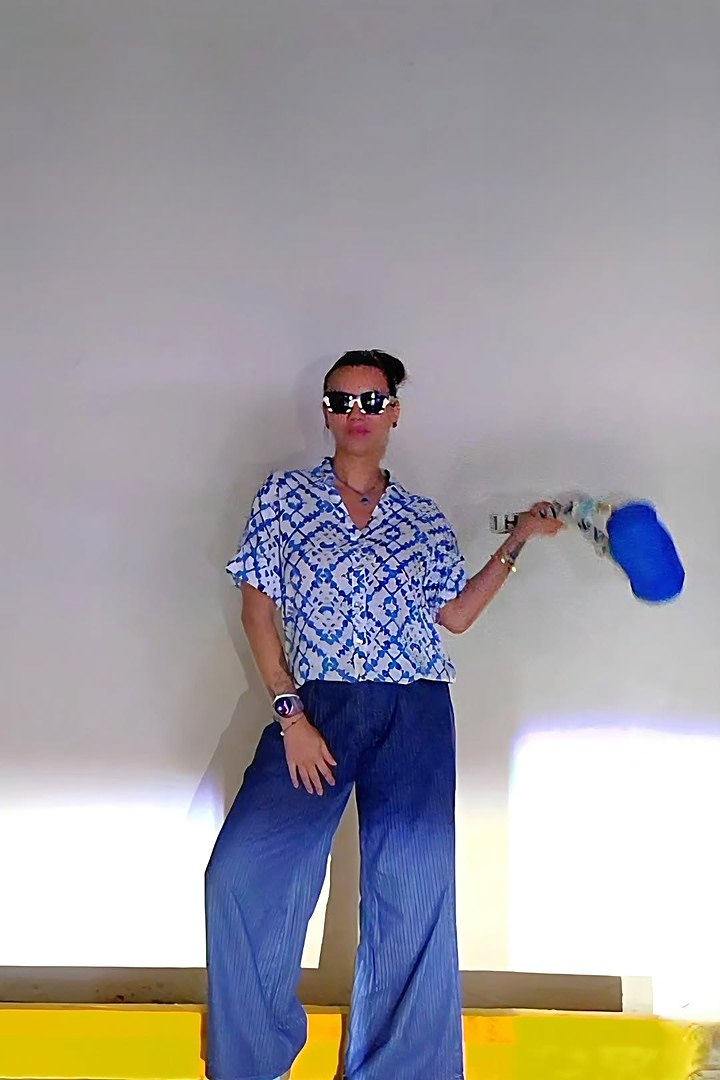
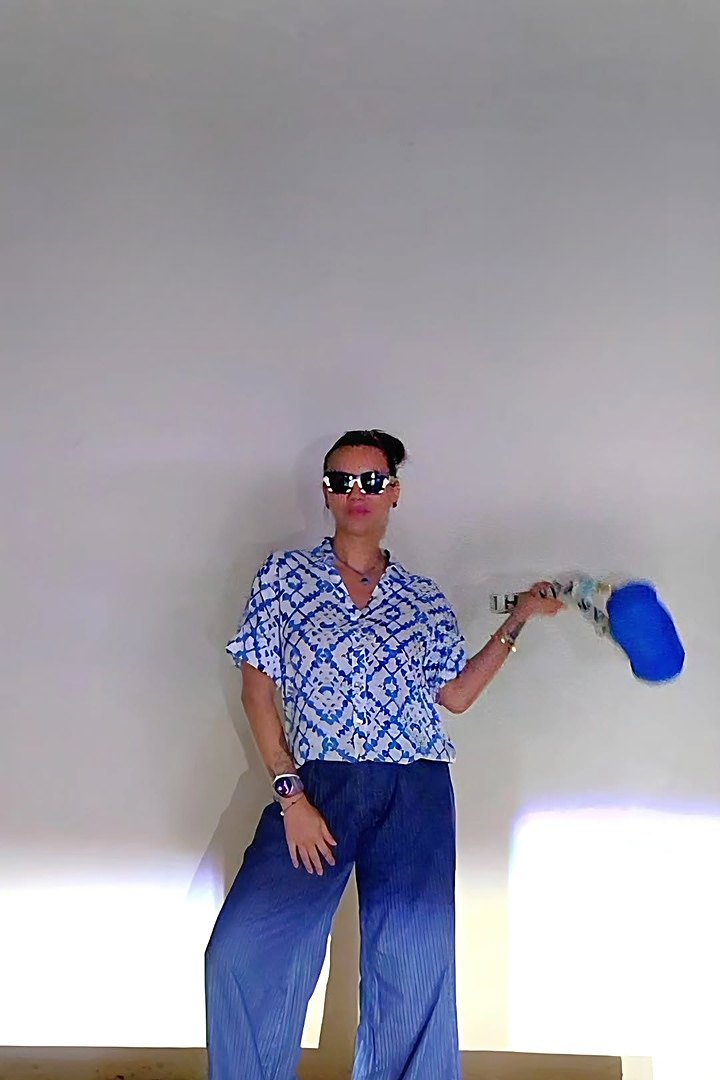
Versión inglesa: descripciones de prendas, entrega y pagos traducidos
Claude-Session: https://claude.ai/code/session_012kiAtahGVL64r5ZrD64122

diff --git a/assets/desc-en.js b/assets/desc-en.js
@@ -1,0 +1,80 @@
+// Descripciones de las prendas en inglés (se aplican solo con EN seleccionado)
+window.mogiDescEN = {
+"Blazer cruzado de cuadros en marrón y crudo con botones de carey. Sin forro, ideal para el clima de Panamá.":"Double-breasted check blazer in brown and ecru with tortoiseshell buttons. Unlined, perfect for warm weather.",
+"Blazer cruzado sin forro y de tela muy fresca. Combina con todos los tonos tierra.":"Unlined double-breasted blazer in a light, airy fabric. Pairs with every earth tone.",
+"Blazer muy versátil: elegante con un vestido o casual con tus jeans favoritos.":"A truly versatile blazer: elegant over a dress, effortless with your favourite jeans.",
+"Blazer rosa de botón único y pantalón con lunares rosa sobre fondo chocolate. Un set con carácter.":"Single-button pink blazer with trousers in pink polka dots on chocolate. A set with character.",
+"Blusa de manga corta con estampado de naranjas sobre fondo crudo. Fresca y veraniega.":"Short-sleeved blouse with an orange print on ecru. Fresh and summery.",
+"Blusa de manga corta con estampado tie-dye en azul sobre blanco, fresca y ligera.":"Short-sleeved blouse with a blue tie-dye print on white, fresh and light.",
+"Blusa de rayas verticales turquesa y negro con botones forrados y puños amplios.":"Turquoise and black vertical-stripe blouse with covered buttons and wide cuffs.",
+"Blusa de satén con escote en pico y manga murciélago amplia. Caída fluida y brillo sutil.":"Satin blouse with a V-neck and generous batwing sleeves. Fluid drape and a subtle sheen.",
+"Blusa fluida de manga ancha en amarillo suave, fresca y fácil de combinar.":"Flowing wide-sleeved blouse in soft yellow, fresh and easy to style.",
+"Blusa negra semitransparente con arabescos aterciopelados y mangas abullonadas. Pantalón negro a juego disponible.":"Sheer black blouse with velvet arabesques and puff sleeves. Matching black trousers available.",
+"Blusa satinada en rosa con estampado gráfico y mangas abullonadas.":"Pink satin blouse with a graphic print and puff sleeves.",
+"Blusa sin mangas con estampado abstracto en naranja y crudo.":"Sleeveless blouse with an abstract print in orange and ecru.",
+"Blusita de punto con corazones en fucsia y naranja, con jeans wide leg en gris lavado. Desde $15.50.":"Knit top with fuchsia and orange hearts, with washed-grey wide-leg jeans. From $15.50.",
+"Blusón negro largo de mangas cortas con fruncido lateral. Se lleva solo o sobre pantalón.":"Long black tunic with short sleeves and side gathering. Wear it on its own or over trousers.",
+"Botín de ante rojo con tacón ancho y punta afilada. Elegante con vestidos y faldas largas.":"Red suede ankle boot with a block heel and pointed toe. Elegant with dresses and long skirts.",
+"Caftán largo de escote en pico con abertura y manga ancha. Tejido ligero con textura, súper versátil y combinable con todos los colores.":"Long V-neck kaftan with a slit and wide sleeves. Light textured fabric, endlessly versatile and easy to pair with any colour.",
+"Camisa amplia de cuello clásico con dos bolsillos de parche y rayas rojas sobre blanco. Las rayas se quedan todo el año.":"Relaxed shirt with a classic collar, two patch pockets and red stripes on white. Stripes that stay all year round.",
+"Camisa de rayas blanco y negro con botones fucsia y pantalón con rosas estampadas. Contraste perfecto.":"Black and white striped shirt with fuchsia buttons, paired with rose-print trousers. Perfect contrast.",
+"Camisa fluida de tacto satinado con cuello camisero y puños abotonados.":"Flowing shirt with a satin feel, classic collar and buttoned cuffs.",
+"Camiseta de cuello redondo y manga corta con estampado gráfico frontal. Corre grande.":"Crew-neck, short-sleeved tee with a graphic front print. Runs large.",
+"Camiseta stretch blanca con estampado de flores en acuarela.":"White stretch tee with a watercolour floral print.",
+"Chaleco y pantalón de caída ligera en azul denim, con botones traídos de Marruecos. Fresco, elegante y muy versátil.":"Lightweight denim-blue waistcoat and trousers with buttons brought from Morocco. Fresh, elegant and versatile.",
+"Chaqueta de inspiración militar en verde salvia con galones crudos y botones dorados.":"Military-inspired jacket in sage green with ecru braiding and gold buttons.",
+"Collar artesanal de cadena plateada con piezas de cristal, flores metálicas y cuentas en negro y coral. Una pieza única que da carácter a cualquier look.":"Handcrafted silver-chain necklace with crystal pieces, metal flowers and black and coral beads. A one-of-a-kind piece that gives character to any look.",
+"Collar de eslabones con dije Testa di Moro de Palermo pintado a mano y aretes de coral, perlas y piedras verdes.":"Link necklace with a hand-painted Palermo Testa di Moro pendant, with coral, pearl and green-stone earrings.",
+"Collar de eslabones con dijes marinos (caracola, tortuga y caballito de mar) y aretes de caracola a juego.":"Link necklace with marine charms (shell, turtle and seahorse) and matching shell earrings.",
+"Collar de piedras azules con medalla esmaltada de mariposa y aretes de bola a juego.":"Blue-stone necklace with an enamelled butterfly medallion and matching ball earrings.",
+"Conjunto de blusa de manga larga con lazada en el escote y short de tiro alto, con flores bordadas en crudo sobre negro.":"Long-sleeved blouse with a tie neckline and high-waisted shorts, with ecru flowers embroidered on black.",
+"Deportiva plana en bronce con rayas laterales crudo.":"Flat bronze sneaker with ecru side stripes.",
+"Deportiva plana en tono camel con suela blanca. Perfecta con pantalones anchos.":"Flat camel sneaker with a white sole. Perfect with wide-leg trousers.",
+"Falda larga de volantes con cintura fruncida elástica y estampado geométrico en morado, rosa y blanco.":"Long tiered skirt with an elasticated gathered waist and a geometric print in purple, pink and white.",
+"Falda midi de doble capa de tul en tono miel, con cintura elástica. Ligera y romántica.":"Honey-toned double-layer tulle midi skirt with an elasticated waist. Light and romantic.",
+"Falda midi gris marengo con pinzas en la cintura. Elegante y atemporal.":"Charcoal-grey midi skirt with waist darts. Elegant and timeless.",
+"Falda midi rosa empolvado con lunares naranja y cintura elástica.":"Powder-pink midi skirt with orange polka dots and an elasticated waist.",
+"Jeans de pierna ancha en denim azul con raya diplomática fina. Tiro alto y caída perfecta.":"Wide-leg jeans in blue pinstripe denim. High-rise with a perfect drape.",
+"Jeans slim bootcut negros de tejido stretch con triple botón en la cintura. Pasan de un look casual a uno formal.":"Black slim bootcut jeans in stretch fabric with a triple-button waist. From casual to formal in a heartbeat.",
+"Jumpsuit con mangas anchas, elástico en la cintura y lazo integrado para estilizar.":"Jumpsuit with wide sleeves, an elasticated waist and a built-in tie to define the silhouette.",
+"Kaftán largo en tonos denim, fresco y cómodo.":"Long kaftan in denim tones, fresh and comfortable.",
+"Mom jeans de lavado claro personalizados con piedras de colores brillantes. Tiro alto y pernera recta.":"Light-wash mom jeans customised with bright coloured stones. High-rise and straight-leg.",
+"Pantalón ancho de cintura elástica con estampado tropical en lilas, verdes y azules.":"Wide-leg trousers with an elasticated waist and a tropical print in lilac, green and blue.",
+"Pantalón ancho de rayas verticales con cintura elástica. Tan versátil como chic.":"Wide-leg vertical-stripe trousers with an elasticated waist. As versatile as they are chic.",
+"Pantalón ancho de tiro alto con estampado de ondas rojas y blancas. Combínalo con la camisa de rayas para un total look.":"High-waisted wide-leg trousers with a red and white wave print. Pair with the striped shirt for a total look.",
+"Pantalón balloon de tiro alto con pinzas, en verde oliva.":"High-waisted pleated balloon trousers in olive green.",
+"Pantalón de pierna muy ancha en gris, de tejido fluido y cintura elástica.":"Extra-wide-leg grey trousers in a fluid fabric with an elasticated waist.",
+"Pantalón de tiro alto en rosa intenso, con pinzas y tejido stretch muy cómodo.":"High-waisted trousers in vivid pink, with pleats and a very comfortable stretch fabric.",
+"Pantalón de vestir de pernera ancha con pinzas y elástico en la parte de atrás para mayor comodidad.":"Wide-leg tailored trousers with pleats and an elasticated back for extra comfort.",
+"Pantalón palazzo de estampado tropical en azules y lila con camiseta básica en mostaza. Un set de colores espectaculares.":"Tropical-print palazzo trousers in blue and lilac with a basic mustard tee. A set in spectacular colours.",
+"Salón de punta en azul hielo con detalle rojo en el talón. Tacón fino.":"Ice-blue pointed pump with a red heel detail. Slim heel.",
+"Salón fucsia de punta fina y tacón medio. El toque de color para un look negro.":"Fuchsia pointed pump with a mid heel. The pop of colour for an all-black look.",
+"Short vaquero de lavado oscuro con detalles desgastados y flecos de cuentas rojas en bolsillos y bajo.":"Dark-wash denim shorts with distressed details and red beaded fringe on the pockets and hem.",
+"Sobrecamisa de pata de gallo con bolsillos con solapa. Muy popular en las vitrinas de Panamá y el mundo.":"Houndstooth overshirt with flap pockets. A favourite in shop windows around the world.",
+"Tela ligera, no transparente, ideal para el clima. Las tiras se pueden poner de varias formas y tiene caída de princesa.":"Light, non-sheer fabric, ideal for warm weather. The straps can be worn several ways, with a graceful princess drape.",
+"Top de punto sin mangas con rayas multicolor y ribetes en mostaza. Tejido stretch. Llévate el outfit completo con los mom jeans por $30.":"Sleeveless knit top with multicolour stripes and mustard trims. Stretch fabric. Take the complete outfit with the mom jeans for $30.",
+"Top satinado de tirantes finos con fruncido en el escote y forro interno.":"Satin camisole with thin straps, a gathered neckline and inner lining.",
+"Traje de tres piezas en microcuadro gris: chaleco, blazer y pantalón de pierna amplia. Se lleva completo o por separado. Precio en tienda $115.":"Three-piece suit in grey micro-check: waistcoat, blazer and wide-leg trousers. Wear it together or separately. Retail price $115.",
+"Un básico del clóset en tonos neutros, con líneas azules que le dan un toque diferente.":"A wardrobe essential in neutral tones, with blue lines for a distinctive touch.",
+"Vestido camisero largo con abertura y botones, incluye cinturón negro. Se puede llevar suelto o entallado.":"Long shirt dress with a slit and buttons, black belt included. Wear it loose or cinched.",
+"Vestido camisero largo de tela con caída, estampado en verdes y azules, con bolsillos.":"Long shirt dress in a fluid fabric, printed in greens and blues, with pockets.",
+"Vestido con forro interno, ajustable atrás y encaje en el pecho. Se puede usar de dos formas. Un básico que no falta en ningún clóset.":"Lined dress, adjustable at the back with lace at the bust. Can be worn two ways. An essential for every wardrobe.",
+"Vestido de colores preciosos, súper cómodo y con bolsillos.":"A dress in beautiful colours, incredibly comfortable and with pockets.",
+"Vestido de seda con tirantes y espalda descubierta. Ideal para la playa o una noche con accesorios dorados.":"Silk slip dress with an open back. Perfect for the beach, or for an evening with gold accessories.",
+"Vestido elegante de tul azul noche con flores bordadas y manga larga transparente.":"Elegant midnight-blue tulle dress with embroidered flowers and sheer long sleeves.",
+"Vestido largo azul con bordado blanco, falda y mangas tipo campana. Perfecto para una salida de domingo.":"Long blue dress with white embroidery, bell skirt and bell sleeves. Perfect for a Sunday outing.",
+"Vestido largo de corte A muy favorecedor, con detalle dorado en el cuello que hace de collar. Fresco para el calor.":"Flattering long A-line dress with a gold neckline detail that doubles as a necklace. Cool for warm days.",
+"Vestido largo de cuello halter con estampado de hojas en amarillo, granate y crudo.":"Long halter-neck dress with a leaf print in yellow, burgundy and ecru.",
+"Vestido largo de escote en V con estampado patchwork en azules y amarillos.":"Long V-neck dress with a patchwork print in blues and yellows.",
+"Vestido largo de tela fluida y escote profundo, con mangas abullonadas y resorte en los puños. Cremallera invisible atrás. Para un día especial.":"Long dress in a fluid fabric with a plunging neckline, puff sleeves and elasticated cuffs. Invisible back zip. For a special day.",
+"Vestido largo de tela ligera con estampado patchwork multicolor. Mangas anchas y abullonadas con elástico para ajustar la altura. Incluye cinturón de tela para marcar la cintura.":"Long dress in a light fabric with a multicolour patchwork print. Wide puff sleeves with adjustable elastic. Fabric belt included to define the waist.",
+"Vestido largo stretch de tirantes con rayas verticales que estilizan la figura.":"Long stretch strappy dress with vertical stripes that elongate the silhouette.",
+"Vestido largo y elegante de corte A con textura de flecos. Tirantes ajustables, escote en pico y forro interno.":"Long, elegant A-line dress with a fringe texture. Adjustable straps, V-neck and inner lining.",
+"Vestido relaxed fit con estampado de temporada y efecto satinado. Usado una vez.":"Relaxed-fit dress with a seasonal print and satin finish. Worn once.",
+"Vestido stretch de corte midi con lazada al cuello. Elegante para un evento o para salir.":"Stretch midi dress with a neck tie. Elegant for an event or a night out.",
+"Zapatilla clásica de piel blanca. Combina con todo.":"Classic white leather sneaker. Goes with everything.",
+"Zapatilla negra de caña media con suela blanca.":"Black mid-top sneaker with a white sole.",
+"Zapatilla negra de piel con detalle gris y morado.":"Black leather sneaker with grey and purple details.",
+"Ligeros y cómodos.":"Light and comfortable.",
+"Aretes":"Earrings"
+}

diff --git a/assets/extras.js b/assets/extras.js
@@ -118,6 +118,23 @@
   // Nombres de casa en inglés (versión por defecto); en español se mantienen los originales
   const EN = {'Favoritos':'Wishlist','Mi cuenta':'Account','Mi bolsa':'Bag','Añadir a la bolsa':'Add to Bag','Comprar ahora':'Buy Now','Guía de tallas':'Size Guide','Volver':'Back','Talla':'Size','Conócenos y pagos':'About & Payments','Sostenibilidad':'Sustainability','Nuevo':'New','Destacados':'Featured','Precio: menor a mayor':'Price: Low to High','Precio: mayor a menor':'Price: High to Low','Mayor descuento':'Best Savings','Pagos:':'Payments:','Música':'Music','Tarjeta':'Card','Efectivo':'Cash','Color:':'Colour:'}
   const ES = {'Mi bolsa':'Mi bolsa'}
+
+  const COND = {'Muy buen estado':'Very good condition','Como nuevo':'Like new','Como nueva':'Like new','Buen estado':'Good condition','Nuevo con etiqueta':'New with tags'}
+  const KIND = {'Prenda':'Second-life piece','Accesorio':'Second-life accessory','Calzado':'Second-life footwear'}
+  const PH = [['Entrega en 24–48 h en ','Delivery in 24–48 h in '],[' · gratis desde ',' · free from '],['Pieza única de segunda vida · revisada y lista para usar','One-of-a-kind second-life piece · inspected and ready to wear'],['Paga con Yappy, transferencia ACH, tarjeta o efectivo contra entrega','Pay with Yappy, ACH transfer, card or cash on delivery'],['Ciudad de Panamá','Panama City']]
+  const trText = raw => {
+    const D = window.mogiDescEN || {}
+    const m = raw.match(/^(\s*)(.*?)\s*(Prenda|Accesorio|Calzado) de segunda vida · ([^.]+)\.?(\s*)$/)
+    if (m) {
+      let main = m[2].trim(), out = D[main]
+      if (!out && /^Aretes /.test(main)) out = main.replace(/^Aretes (.*?)\. Ligeros y cómodos\.$/, (x, a) => `Earrings: ${a}. Light and comfortable.`)
+      if (!out) out = main
+      return `${m[1]}${out} ${KIND[m[3]]} · ${COND[m[4].trim()] || m[4]}.${m[5]}`
+    }
+    let r = raw, hit = false
+    for (const [a, b] of PH) if (r.includes(a)) { r = r.split(a).join(b); hit = true }
+    return hit ? r : null
+  }
   const orig = new WeakMap()
   const relabel = () => {
     const root = document.getElementById('root'); if (!root) return
@@ -128,7 +145,11 @@
       const raw = n.nodeValue, key = raw.trim()
       if (!key) continue
       const o = orig.get(n)
-      if (en) { if (EN[key] && raw !== raw.replace(key, EN[key])) { orig.set(n, raw); n.nodeValue = raw.replace(key, EN[key]) } }
+      if (en) {
+        const src = o ?? raw
+        let tr = EN[src.trim()] ? src.replace(src.trim(), EN[src.trim()]) : trText(src)
+        if (tr && tr !== raw) { if (!o) orig.set(n, raw); n.nodeValue = tr }
+      }
       else if (o && raw !== o) n.nodeValue = o
     }
   }

diff --git a/artifact.html b/artifact.html
@@ -7,5 +7,6 @@
 <script type="module" src="./assets/musica.js"></script>
 <script type="module" src="./assets/calzado.js"></script>
 <script type="module" src="./assets/archivo.js"></script>
+<script src="./assets/desc-en.js"></script>
 <script type="module" src="./assets/extras.js"></script>
 <style>img[src*="fotos/ig/"],img[src*="fotos/monica/"]{object-position:50% 22%}img[src*="portada.jpg"]{object-position:36% 6%}img[src*="calzado-"]{object-position:50% 70%}img[src*="calzado-hero"]{object-position:50% 62%}.mb-4>img[src*="calzado-hero"]{object-position:50% 90%}img[src*="born.jpg"]{object-position:50% 50%}</style>

diff --git a/index.html b/index.html
@@ -27,6 +27,7 @@
   <script type="module" src="./assets/musica.js"></script>
 <script type="module" src="./assets/calzado.js"></script>
 <script type="module" src="./assets/archivo.js"></script>
+<script src="./assets/desc-en.js"></script>
 <script type="module" src="./assets/extras.js"></script>
   </body>
 </html>
